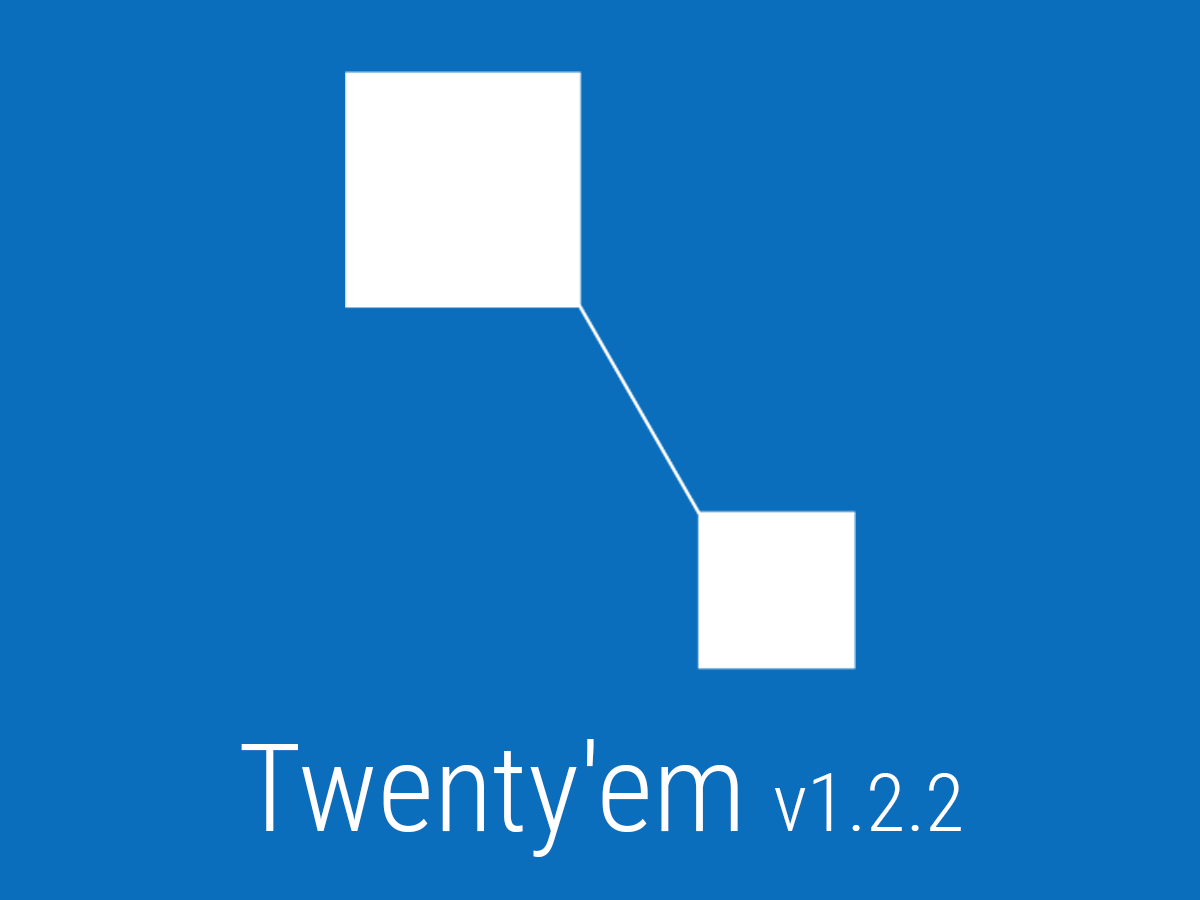
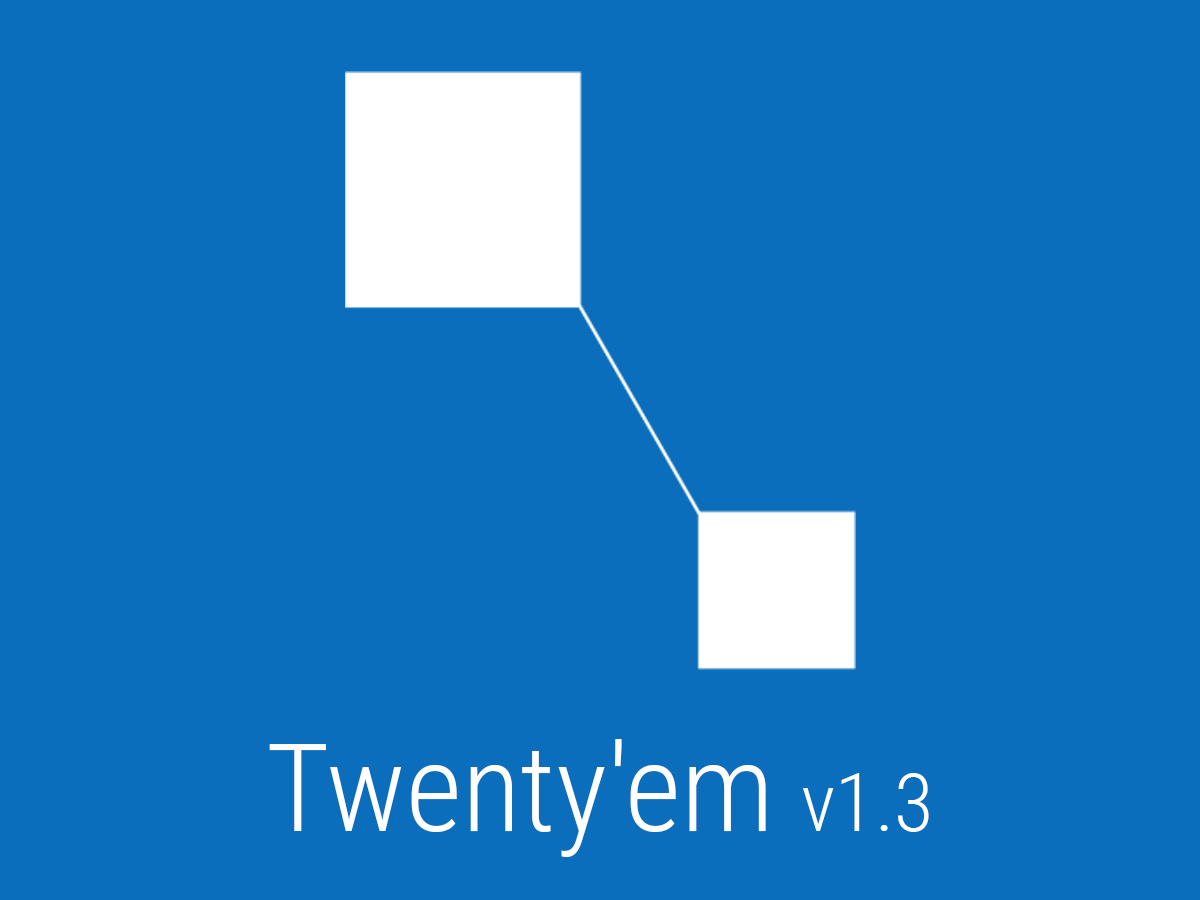
Brand Update

Changed region(s): [[0.185, 0.8089, 0.8017, 0.9644]]

diff --git a/engine/constants.php b/engine/constants.php
@@ -35,12 +35,12 @@ define ( 'T_EM_ICON_PACK', 												'https://themingisprose.com/twenty-em/ico
 define ( 'T_EM_PAYPAL', 												'https://paypal.me/themingisprose' );
 
 // WordPress version in which Twenty'em has been tested
-define ( 'T_EM_WORDPRESS_VERSION',										'4.9.1' );
+define ( 'T_EM_WORDPRESS_VERSION',										'4.9.4' );
 
 // Twenty'em Version
 define ( 'T_EM_FRAMEWORK_NAME',											'Twenty\'em' );
 define ( 'T_EM_FRAMEWORK_VERSION',										'1.3' );
-define ( 'T_EM_FRAMEWORK_VERSION_NAME',									__( 'Polymita picta', 't_em' ) );
+define ( 'T_EM_FRAMEWORK_VERSION_NAME',									__( 'Solenodon Cubanus', 't_em' ) );
 define ( 'T_EM_FRAMEWORK_VERSION_STATUS',								'Beta' );
 define ( 'T_EM_DB_VERSION',												'20171021' ); // In date format Ymd
 
